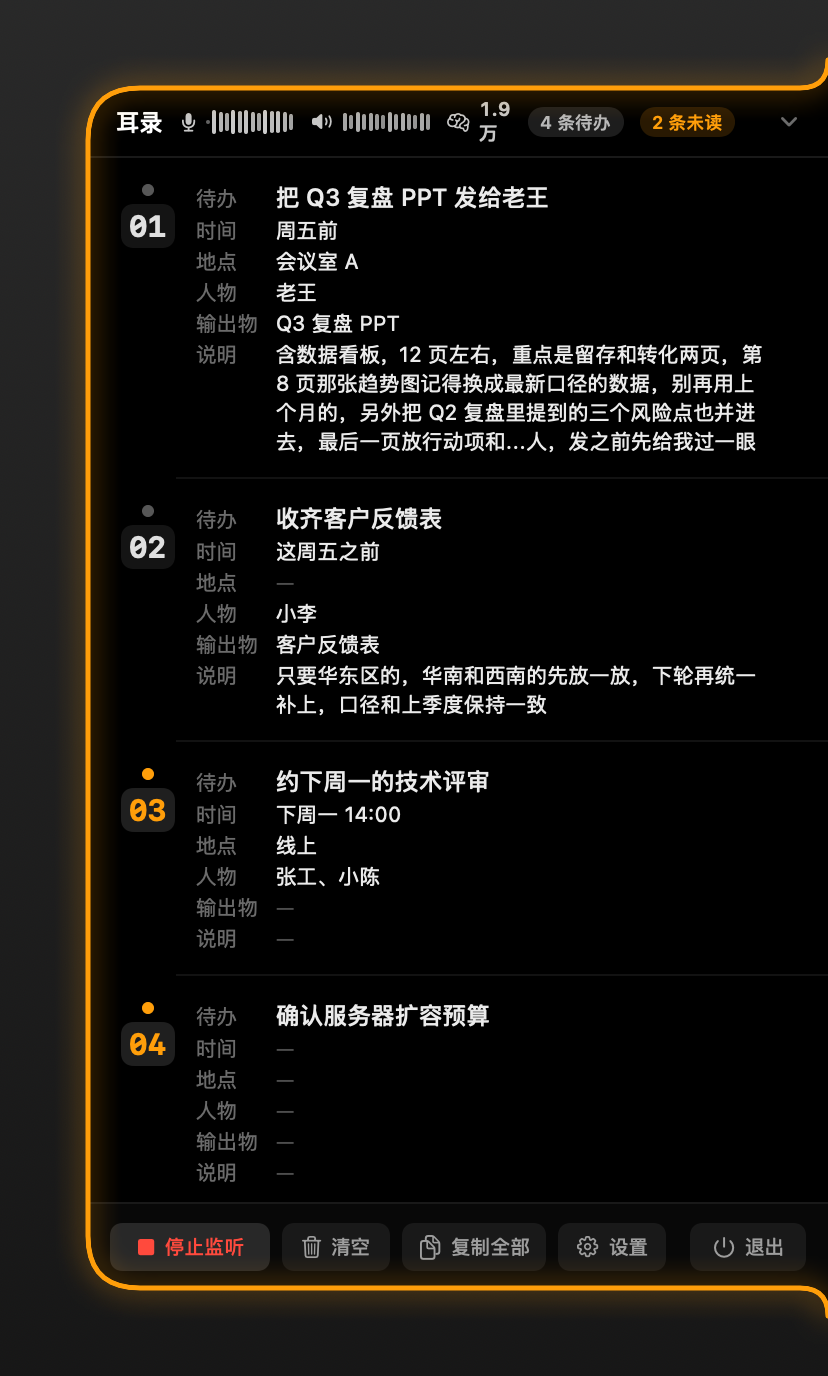
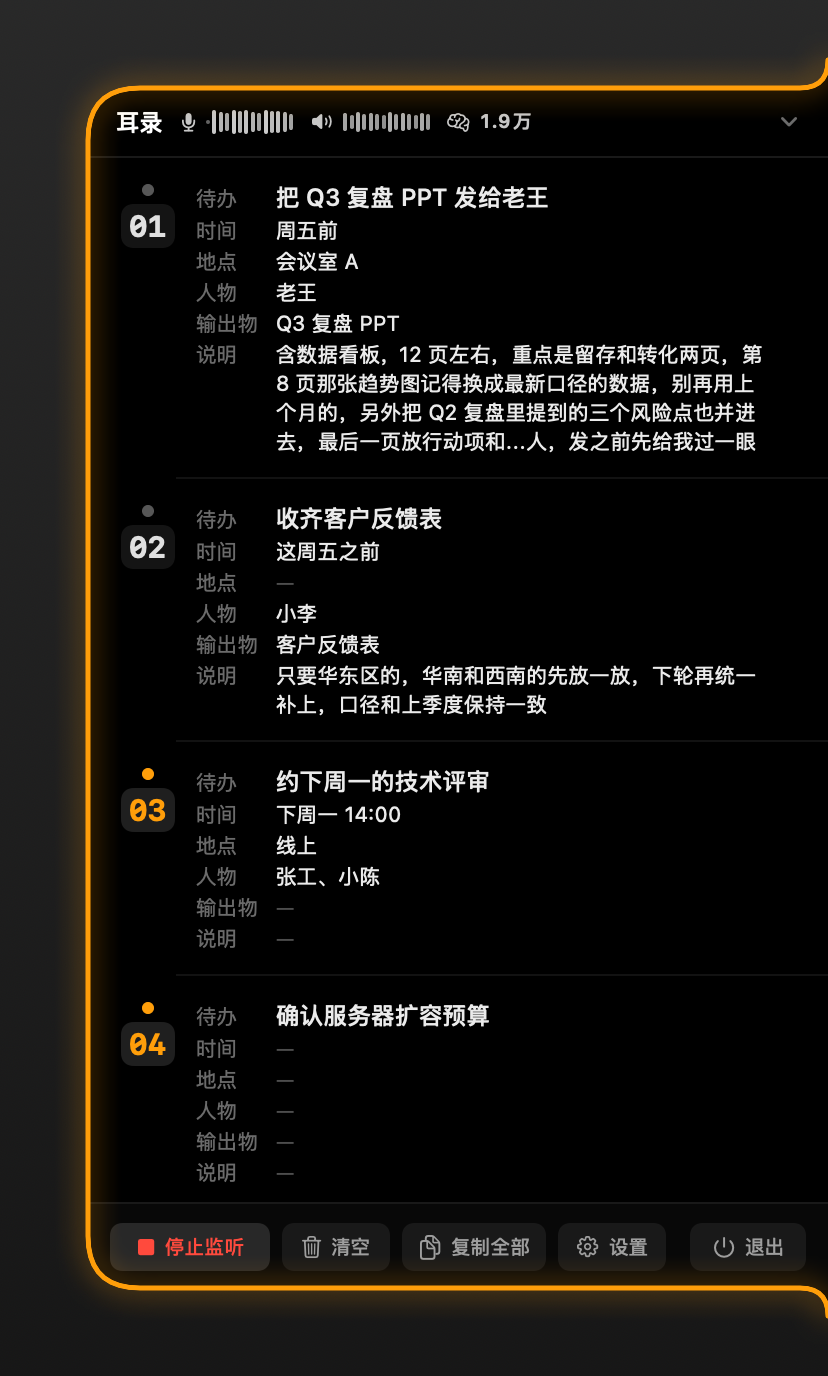
v1.2.1：标题栏去掉待办数，给 token 留足空间 (#9)
标题栏保持单行：拿掉「N 条待办 / N 条未读」两枚胶囊，token 徽章加 fixedSize 与最小宽度，数字涨到 1.9万 也不会换行；标题同样不再被压缩换行。收起把手的未读角标、行首圆点和菜单里的条数都保留。

Changed region(s): [[0.5737, 0.0625, 0.9058, 0.125]]

diff --git a/Sources/ShotUI.swift b/Sources/ShotUI.swift
@@ -683,6 +683,7 @@ struct PanelBody: View {
             Text("耳录")
                 .font(.system(size: 12, weight: .semibold))
                 .foregroundStyle(.white)
+                .fixedSize()
             // 两条声纹：前面是图标（麦克风 = 我，喇叭 = 电脑自己），后面跟一串
             // 电平柱。中间那行实时转写文字拿掉之后，「它在听、现在有动静」
             // 就靠它们表达 —— 不用读字，扫一眼就知道哪路在说话
@@ -691,15 +692,6 @@ struct PanelBody: View {
             // 大脑 + 数字：这次打开以来大模型回包一共烧了多少 token。
             // 有回包就涨 —— 「它在花钱」扫一眼可见，不用翻日志
             TokenBadge(tokens: store.totalTokens)
-            if !store.todos.isEmpty {
-                CountChip(text: "\(store.todos.count) 条待办",
-                          color: Color(white: 0.72))
-            }
-            if store.newCount > 0 {
-                // 「未读」= 新来的 + 被补全/修改过的（见 TodoStore.merge）——
-                // 说「条新」会名不副实，改口叫未读
-                CountChip(text: "\(store.newCount) 条未读", color: AlertLevel.new.color)
-            }
             Spacer(minLength: 6)
             // 右侧状态：监听计时 / 报错原因 / 模型下载进度。绝不静默失败。
             if !store.statusText.isEmpty {
@@ -709,6 +701,7 @@ struct PanelBody: View {
                                      ? Color(red: 1.0, green: 0.62, blue: 0.04)
                                      : Color(white: 0.4))
                     .lineLimit(1)
+                    .truncationMode(.tail)
             }
             // 收起用的着力点。点标题栏任何地方都能收起，这个只是让人看得见。
             Image(systemName: "chevron.down")
@@ -774,19 +767,6 @@ struct PanelBody: View {
     }
 }
 
-private struct CountChip: View {
-    var text: String
-    var color: Color
-    var body: some View {
-        Text(text)
-            .font(.system(size: 9, weight: .semibold))
-            .foregroundStyle(color)
-            .padding(.horizontal, 6)
-            .padding(.vertical, 2)
-            .background(Capsule().fill(color.opacity(0.16)))
-    }
-}
-
 /// 标题栏的一条「声纹」：来源图标 + 一串电平柱（`AudioMeters` 推来的 0…1）。
 ///
 /// 柱高对称着从中线长出去，越新的电平越靠右 —— 和录音软件里的波形一个读法。
@@ -840,8 +820,12 @@ private struct TokenBadge: View {
                 .font(.system(size: 8.5, weight: .semibold))
             Text(tokens.formatted(.number.notation(.compactName)))
                 .font(.system(size: 9.5, weight: .semibold).monospacedDigit())
+                .lineLimit(1)
         }
         .foregroundStyle(Color.white.opacity(tokens > 0 ? 0.78 : 0.34))
+        // 不加 fixedSize 会被 HStack 压成两行；minWidth 给「1.9万」留余量
+        .fixedSize(horizontal: true, vertical: false)
+        .frame(minWidth: 46, alignment: .leading)
         .help("这次打开以来大模型共消耗 \(tokens) token")
     }
 }
